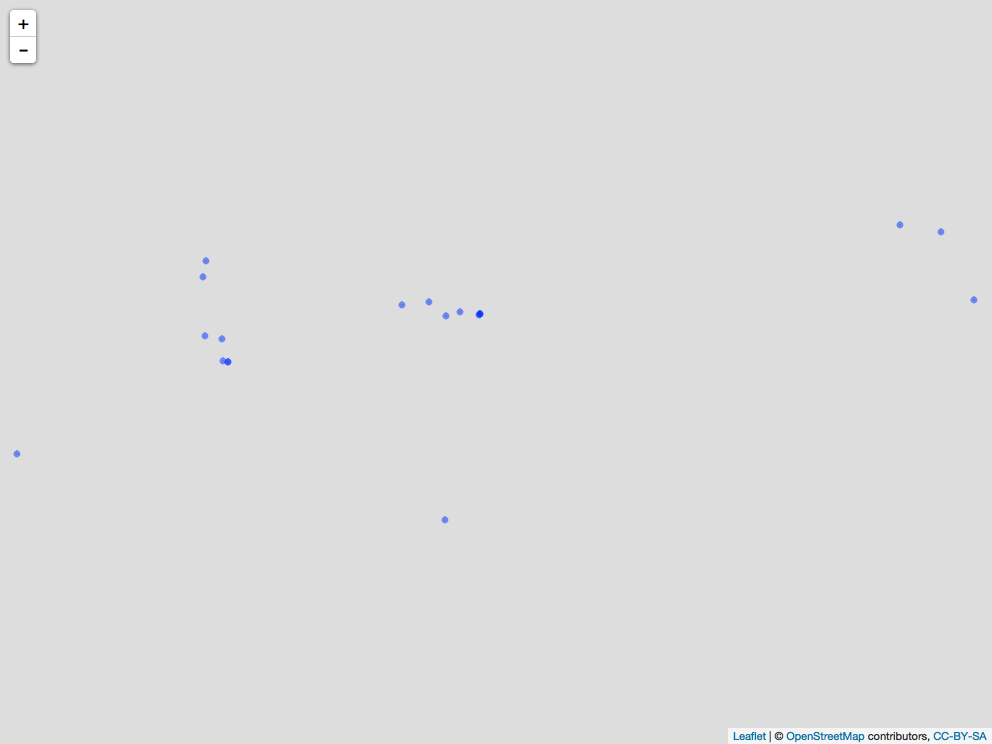
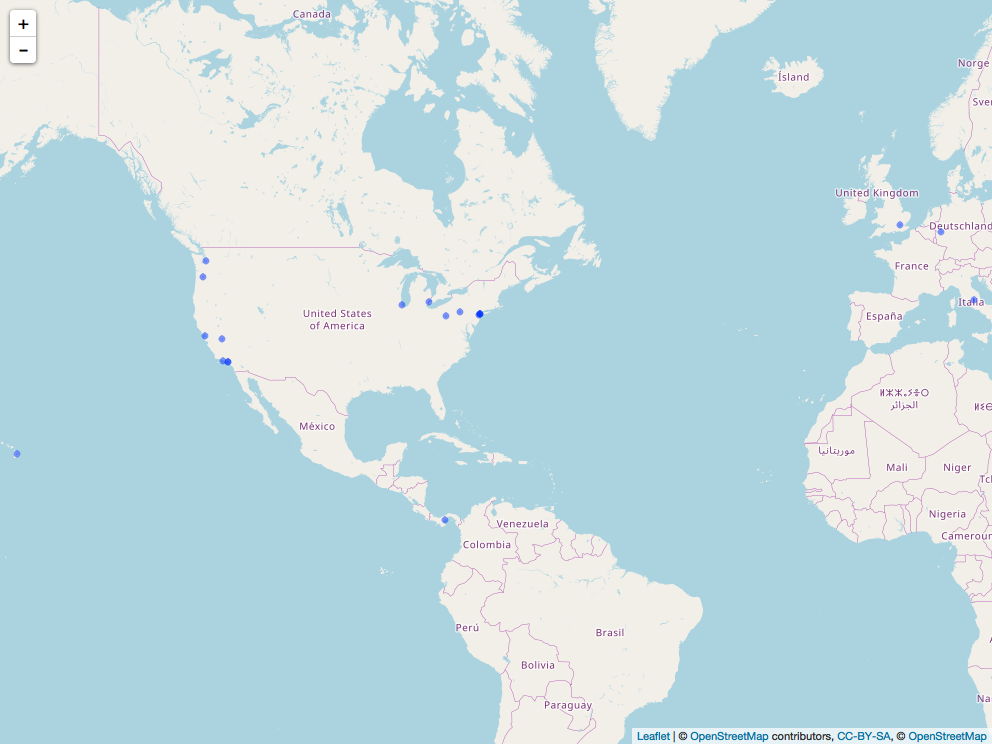
update

diff --git a/hw06/hw06-Tang-Jiahui.html b/hw06/hw06-Tang-Jiahui.html
@@ -243,22 +243,22 @@ writeLines(backslash)</code></pre>
 <pre class="r"><code>writeLines(backslash2)</code></pre>
 <pre><code>## a\</code></pre>
 <pre class="r"><code>str_view(c(&quot;abc&quot;, &quot;a\\b&quot;, &quot;bef&quot;), &quot;\\\\&quot;)</code></pre>
-<div id="htmlwidget-78f3b83acbce5a109d50" style="width:960px;height:auto;" class="str_view html-widget"></div>
-<script type="application/json" data-for="htmlwidget-78f3b83acbce5a109d50">{"x":{"html":"<ul>\n  <li>abc<\/li>\n  <li>a<span class='match'>\\<\/span>b<\/li>\n  <li>bef<\/li>\n<\/ul>"},"evals":[],"jsHooks":[]}</script>
+<div id="htmlwidget-afb9a54662c785cf31b3" style="width:960px;height:auto;" class="str_view html-widget"></div>
+<script type="application/json" data-for="htmlwidget-afb9a54662c785cf31b3">{"x":{"html":"<ul>\n  <li>abc<\/li>\n  <li>a<span class='match'>\\<\/span>b<\/li>\n  <li>bef<\/li>\n<\/ul>"},"evals":[],"jsHooks":[]}</script>
 <ul>
 <li>How would you match the sequence “’ ?</li>
 </ul>
 <p>*Anwser: We should string “&quot;\’\\” to match “’ as below.*</p>
 <pre class="r"><code>str_view(c(&quot;abc&quot;, 'a&quot;\'\\b', &quot;bef&quot;), &quot;\&quot;\\'\\\\&quot;)</code></pre>
-<div id="htmlwidget-577c947ea16cee736e2b" style="width:960px;height:auto;" class="str_view html-widget"></div>
-<script type="application/json" data-for="htmlwidget-577c947ea16cee736e2b">{"x":{"html":"<ul>\n  <li>abc<\/li>\n  <li>a<span class='match'>\"'\\<\/span>b<\/li>\n  <li>bef<\/li>\n<\/ul>"},"evals":[],"jsHooks":[]}</script>
+<div id="htmlwidget-b24b1a4e1d9d7c3aecee" style="width:960px;height:auto;" class="str_view html-widget"></div>
+<script type="application/json" data-for="htmlwidget-b24b1a4e1d9d7c3aecee">{"x":{"html":"<ul>\n  <li>abc<\/li>\n  <li>a<span class='match'>\"'\\<\/span>b<\/li>\n  <li>bef<\/li>\n<\/ul>"},"evals":[],"jsHooks":[]}</script>
 <ul>
 <li>What patterns will the regular expression ...... match? How would you represent it as a string?</li>
 </ul>
 <p><em>Answer: The regular express ...... matches any strings that have a dot followed by any characters,then another dot with character，then another dot with character.</em></p>
 <pre class="r"><code>str_view(c(&quot;abc&quot;, &quot;.a.b.c&quot;, &quot;bef&quot;), &quot;\\..\\..\\..&quot;)</code></pre>
-<div id="htmlwidget-5c0bcc5fc17fbe20c6a8" style="width:960px;height:auto;" class="str_view html-widget"></div>
-<script type="application/json" data-for="htmlwidget-5c0bcc5fc17fbe20c6a8">{"x":{"html":"<ul>\n  <li>abc<\/li>\n  <li><span class='match'>.a.b.c<\/span><\/li>\n  <li>bef<\/li>\n<\/ul>"},"evals":[],"jsHooks":[]}</script>
+<div id="htmlwidget-75767ec4f2a12349798d" style="width:960px;height:auto;" class="str_view html-widget"></div>
+<script type="application/json" data-for="htmlwidget-75767ec4f2a12349798d">{"x":{"html":"<ul>\n  <li>abc<\/li>\n  <li><span class='match'>.a.b.c<\/span><\/li>\n  <li>bef<\/li>\n<\/ul>"},"evals":[],"jsHooks":[]}</script>
 </div>
 <div id="exercises14.3.2.1" class="section level3">
 <h3>Exercises14.3.2.1</h3>
@@ -267,8 +267,8 @@ writeLines(backslash)</code></pre>
 </ul>
 <p><em>Answer：We can use ‘^\<span class="math inline">\(\\^\\\)</span>$’ to match. </em></p>
 <pre class="r"><code>str_view(c(&quot;abc&quot;, &quot;$^$&quot;, &quot;a$^$a&quot;), &quot;^\\$\\^\\$$&quot;)</code></pre>
-<div id="htmlwidget-bc0d5dacd17c05e11fbc" style="width:960px;height:auto;" class="str_view html-widget"></div>
-<script type="application/json" data-for="htmlwidget-bc0d5dacd17c05e11fbc">{"x":{"html":"<ul>\n  <li>abc<\/li>\n  <li><span class='match'>$^$<\/span><\/li>\n  <li>a$^$a<\/li>\n<\/ul>"},"evals":[],"jsHooks":[]}</script>
+<div id="htmlwidget-e4ca7c52b5259f620602" style="width:960px;height:auto;" class="str_view html-widget"></div>
+<script type="application/json" data-for="htmlwidget-e4ca7c52b5259f620602">{"x":{"html":"<ul>\n  <li>abc<\/li>\n  <li><span class='match'>$^$<\/span><\/li>\n  <li>a$^$a<\/li>\n<\/ul>"},"evals":[],"jsHooks":[]}</script>
 <ul>
 <li>Given the corpus of common words in stringr::words, create regular expressions that find all words that:</li>
 </ul>
@@ -281,17 +281,17 @@ writeLines(backslash)</code></pre>
 <p>Since this list is long, you might want to use the match argument to str_view() to show only the matching or non-matching words.</p>
 <p><em>Anwser: We can use regular expressions show below to find all words.</em></p>
 <pre class="r"><code>str_view(stringr::words, &quot;^y&quot;, match = TRUE)</code></pre>
-<div id="htmlwidget-5e9726d8404dd9d7a4f8" style="width:960px;height:auto;" class="str_view html-widget"></div>
-<script type="application/json" data-for="htmlwidget-5e9726d8404dd9d7a4f8">{"x":{"html":"<ul>\n  <li><span class='match'>y<\/span>ear<\/li>\n  <li><span class='match'>y<\/span>es<\/li>\n  <li><span class='match'>y<\/span>esterday<\/li>\n  <li><span class='match'>y<\/span>et<\/li>\n  <li><span class='match'>y<\/span>ou<\/li>\n  <li><span class='match'>y<\/span>oung<\/li>\n<\/ul>"},"evals":[],"jsHooks":[]}</script>
+<div id="htmlwidget-56de4177d35988f820a2" style="width:960px;height:auto;" class="str_view html-widget"></div>
+<script type="application/json" data-for="htmlwidget-56de4177d35988f820a2">{"x":{"html":"<ul>\n  <li><span class='match'>y<\/span>ear<\/li>\n  <li><span class='match'>y<\/span>es<\/li>\n  <li><span class='match'>y<\/span>esterday<\/li>\n  <li><span class='match'>y<\/span>et<\/li>\n  <li><span class='match'>y<\/span>ou<\/li>\n  <li><span class='match'>y<\/span>oung<\/li>\n<\/ul>"},"evals":[],"jsHooks":[]}</script>
 <pre class="r"><code>str_view(stringr::words, &quot;x$&quot;, match = TRUE)</code></pre>
-<div id="htmlwidget-163293389b677ea29d9b" style="width:960px;height:auto;" class="str_view html-widget"></div>
-<script type="application/json" data-for="htmlwidget-163293389b677ea29d9b">{"x":{"html":"<ul>\n  <li>bo<span class='match'>x<\/span><\/li>\n  <li>se<span class='match'>x<\/span><\/li>\n  <li>si<span class='match'>x<\/span><\/li>\n  <li>ta<span class='match'>x<\/span><\/li>\n<\/ul>"},"evals":[],"jsHooks":[]}</script>
+<div id="htmlwidget-15edb0595e0413ab9be1" style="width:960px;height:auto;" class="str_view html-widget"></div>
+<script type="application/json" data-for="htmlwidget-15edb0595e0413ab9be1">{"x":{"html":"<ul>\n  <li>bo<span class='match'>x<\/span><\/li>\n  <li>se<span class='match'>x<\/span><\/li>\n  <li>si<span class='match'>x<\/span><\/li>\n  <li>ta<span class='match'>x<\/span><\/li>\n<\/ul>"},"evals":[],"jsHooks":[]}</script>
 <pre class="r"><code>str_view(tail(stringr::words), &quot;^...$&quot;, match = TRUE)</code></pre>
-<div id="htmlwidget-6ef8bbe1b34ce729498d" style="width:960px;height:auto;" class="str_view html-widget"></div>
-<script type="application/json" data-for="htmlwidget-6ef8bbe1b34ce729498d">{"x":{"html":"<ul>\n  <li><span class='match'>yes<\/span><\/li>\n  <li><span class='match'>yet<\/span><\/li>\n  <li><span class='match'>you<\/span><\/li>\n<\/ul>"},"evals":[],"jsHooks":[]}</script>
+<div id="htmlwidget-6de38ce03c95db9769a2" style="width:960px;height:auto;" class="str_view html-widget"></div>
+<script type="application/json" data-for="htmlwidget-6de38ce03c95db9769a2">{"x":{"html":"<ul>\n  <li><span class='match'>yes<\/span><\/li>\n  <li><span class='match'>yet<\/span><\/li>\n  <li><span class='match'>you<\/span><\/li>\n<\/ul>"},"evals":[],"jsHooks":[]}</script>
 <pre class="r"><code>str_view(head(stringr::words), &quot;^.......&quot;, match = TRUE)</code></pre>
-<div id="htmlwidget-65f83f2507cee5786e4a" style="width:960px;height:auto;" class="str_view html-widget"></div>
-<script type="application/json" data-for="htmlwidget-65f83f2507cee5786e4a">{"x":{"html":"<ul>\n  <li><span class='match'>absolut<\/span>e<\/li>\n  <li><span class='match'>account<\/span><\/li>\n<\/ul>"},"evals":[],"jsHooks":[]}</script>
+<div id="htmlwidget-1d47890dc3953ac03664" style="width:960px;height:auto;" class="str_view html-widget"></div>
+<script type="application/json" data-for="htmlwidget-1d47890dc3953ac03664">{"x":{"html":"<ul>\n  <li><span class='match'>absolut<\/span>e<\/li>\n  <li><span class='match'>account<\/span><\/li>\n<\/ul>"},"evals":[],"jsHooks":[]}</script>
 </div>
 <div id="exercises14.3.3.1" class="section level3">
 <h3>Exercises14.3.3.1</h3>
@@ -305,46 +305,46 @@ writeLines(backslash)</code></pre>
 <li><p>End with ing or ise.</p></li>
 </ol>
 <pre class="r"><code>str_view(head(stringr::words), &quot;^[aeiou]&quot;, match = TRUE)</code></pre>
-<div id="htmlwidget-63339474a5dd2799c3df" style="width:960px;height:auto;" class="str_view html-widget"></div>
-<script type="application/json" data-for="htmlwidget-63339474a5dd2799c3df">{"x":{"html":"<ul>\n  <li><span class='match'>a<\/span><\/li>\n  <li><span class='match'>a<\/span>ble<\/li>\n  <li><span class='match'>a<\/span>bout<\/li>\n  <li><span class='match'>a<\/span>bsolute<\/li>\n  <li><span class='match'>a<\/span>ccept<\/li>\n  <li><span class='match'>a<\/span>ccount<\/li>\n<\/ul>"},"evals":[],"jsHooks":[]}</script>
+<div id="htmlwidget-ac0bdbf748157ebb44f1" style="width:960px;height:auto;" class="str_view html-widget"></div>
+<script type="application/json" data-for="htmlwidget-ac0bdbf748157ebb44f1">{"x":{"html":"<ul>\n  <li><span class='match'>a<\/span><\/li>\n  <li><span class='match'>a<\/span>ble<\/li>\n  <li><span class='match'>a<\/span>bout<\/li>\n  <li><span class='match'>a<\/span>bsolute<\/li>\n  <li><span class='match'>a<\/span>ccept<\/li>\n  <li><span class='match'>a<\/span>ccount<\/li>\n<\/ul>"},"evals":[],"jsHooks":[]}</script>
 <pre class="r"><code>str_view(stringr::words, &quot;[aeiou]&quot;, match = FALSE)</code></pre>
-<div id="htmlwidget-ac1d7d776d2a41c658e8" style="width:960px;height:auto;" class="str_view html-widget"></div>
-<script type="application/json" data-for="htmlwidget-ac1d7d776d2a41c658e8">{"x":{"html":"<ul>\n  <li>by<\/li>\n  <li>dry<\/li>\n  <li>fly<\/li>\n  <li>mrs<\/li>\n  <li>try<\/li>\n  <li>why<\/li>\n<\/ul>"},"evals":[],"jsHooks":[]}</script>
+<div id="htmlwidget-8e414f1594e9feba3e8a" style="width:960px;height:auto;" class="str_view html-widget"></div>
+<script type="application/json" data-for="htmlwidget-8e414f1594e9feba3e8a">{"x":{"html":"<ul>\n  <li>by<\/li>\n  <li>dry<\/li>\n  <li>fly<\/li>\n  <li>mrs<\/li>\n  <li>try<\/li>\n  <li>why<\/li>\n<\/ul>"},"evals":[],"jsHooks":[]}</script>
 <pre class="r"><code>str_view(stringr::words, &quot;[^e]ed$&quot;, match = TRUE)</code></pre>
-<div id="htmlwidget-9763aad8439ebe09d0eb" style="width:960px;height:auto;" class="str_view html-widget"></div>
-<script type="application/json" data-for="htmlwidget-9763aad8439ebe09d0eb">{"x":{"html":"<ul>\n  <li><span class='match'>bed<\/span><\/li>\n  <li>hund<span class='match'>red<\/span><\/li>\n  <li><span class='match'>red<\/span><\/li>\n<\/ul>"},"evals":[],"jsHooks":[]}</script>
+<div id="htmlwidget-179e23ffb2b6ea00921a" style="width:960px;height:auto;" class="str_view html-widget"></div>
+<script type="application/json" data-for="htmlwidget-179e23ffb2b6ea00921a">{"x":{"html":"<ul>\n  <li><span class='match'>bed<\/span><\/li>\n  <li>hund<span class='match'>red<\/span><\/li>\n  <li><span class='match'>red<\/span><\/li>\n<\/ul>"},"evals":[],"jsHooks":[]}</script>
 <pre class="r"><code>str_view(stringr::words, &quot;ing$|ise$&quot;, match = TRUE)</code></pre>
-<div id="htmlwidget-54368f987f70f2d64675" style="width:960px;height:auto;" class="str_view html-widget"></div>
-<script type="application/json" data-for="htmlwidget-54368f987f70f2d64675">{"x":{"html":"<ul>\n  <li>advert<span class='match'>ise<\/span><\/li>\n  <li>br<span class='match'>ing<\/span><\/li>\n  <li>dur<span class='match'>ing<\/span><\/li>\n  <li>even<span class='match'>ing<\/span><\/li>\n  <li>exerc<span class='match'>ise<\/span><\/li>\n  <li>k<span class='match'>ing<\/span><\/li>\n  <li>mean<span class='match'>ing<\/span><\/li>\n  <li>morn<span class='match'>ing<\/span><\/li>\n  <li>otherw<span class='match'>ise<\/span><\/li>\n  <li>pract<span class='match'>ise<\/span><\/li>\n  <li>ra<span class='match'>ise<\/span><\/li>\n  <li>real<span class='match'>ise<\/span><\/li>\n  <li>r<span class='match'>ing<\/span><\/li>\n  <li>r<span class='match'>ise<\/span><\/li>\n  <li>s<span class='match'>ing<\/span><\/li>\n  <li>surpr<span class='match'>ise<\/span><\/li>\n  <li>th<span class='match'>ing<\/span><\/li>\n<\/ul>"},"evals":[],"jsHooks":[]}</script>
+<div id="htmlwidget-65f1c6bf69b0e0ac964f" style="width:960px;height:auto;" class="str_view html-widget"></div>
+<script type="application/json" data-for="htmlwidget-65f1c6bf69b0e0ac964f">{"x":{"html":"<ul>\n  <li>advert<span class='match'>ise<\/span><\/li>\n  <li>br<span class='match'>ing<\/span><\/li>\n  <li>dur<span class='match'>ing<\/span><\/li>\n  <li>even<span class='match'>ing<\/span><\/li>\n  <li>exerc<span class='match'>ise<\/span><\/li>\n  <li>k<span class='match'>ing<\/span><\/li>\n  <li>mean<span class='match'>ing<\/span><\/li>\n  <li>morn<span class='match'>ing<\/span><\/li>\n  <li>otherw<span class='match'>ise<\/span><\/li>\n  <li>pract<span class='match'>ise<\/span><\/li>\n  <li>ra<span class='match'>ise<\/span><\/li>\n  <li>real<span class='match'>ise<\/span><\/li>\n  <li>r<span class='match'>ing<\/span><\/li>\n  <li>r<span class='match'>ise<\/span><\/li>\n  <li>s<span class='match'>ing<\/span><\/li>\n  <li>surpr<span class='match'>ise<\/span><\/li>\n  <li>th<span class='match'>ing<\/span><\/li>\n<\/ul>"},"evals":[],"jsHooks":[]}</script>
 <ul>
 <li>Empirically verify the rule “i before e except after c”.</li>
 </ul>
 <pre class="r"><code>str_view(stringr::words, &quot;cei|[^c]ie&quot;, match = TRUE)</code></pre>
-<div id="htmlwidget-8148998de3e971c7baa8" style="width:960px;height:auto;" class="str_view html-widget"></div>
-<script type="application/json" data-for="htmlwidget-8148998de3e971c7baa8">{"x":{"html":"<ul>\n  <li>ac<span class='match'>hie<\/span>ve<\/li>\n  <li>be<span class='match'>lie<\/span>ve<\/li>\n  <li>b<span class='match'>rie<\/span>f<\/li>\n  <li>c<span class='match'>lie<\/span>nt<\/li>\n  <li><span class='match'>die<\/span><\/li>\n  <li>expe<span class='match'>rie<\/span>nce<\/li>\n  <li><span class='match'>fie<\/span>ld<\/li>\n  <li>f<span class='match'>rie<\/span>nd<\/li>\n  <li><span class='match'>lie<\/span><\/li>\n  <li><span class='match'>pie<\/span>ce<\/li>\n  <li>q<span class='match'>uie<\/span>t<\/li>\n  <li>re<span class='match'>cei<\/span>ve<\/li>\n  <li><span class='match'>tie<\/span><\/li>\n  <li><span class='match'>vie<\/span>w<\/li>\n<\/ul>"},"evals":[],"jsHooks":[]}</script>
+<div id="htmlwidget-088a671cee4c41bbf4f5" style="width:960px;height:auto;" class="str_view html-widget"></div>
+<script type="application/json" data-for="htmlwidget-088a671cee4c41bbf4f5">{"x":{"html":"<ul>\n  <li>ac<span class='match'>hie<\/span>ve<\/li>\n  <li>be<span class='match'>lie<\/span>ve<\/li>\n  <li>b<span class='match'>rie<\/span>f<\/li>\n  <li>c<span class='match'>lie<\/span>nt<\/li>\n  <li><span class='match'>die<\/span><\/li>\n  <li>expe<span class='match'>rie<\/span>nce<\/li>\n  <li><span class='match'>fie<\/span>ld<\/li>\n  <li>f<span class='match'>rie<\/span>nd<\/li>\n  <li><span class='match'>lie<\/span><\/li>\n  <li><span class='match'>pie<\/span>ce<\/li>\n  <li>q<span class='match'>uie<\/span>t<\/li>\n  <li>re<span class='match'>cei<\/span>ve<\/li>\n  <li><span class='match'>tie<\/span><\/li>\n  <li><span class='match'>vie<\/span>w<\/li>\n<\/ul>"},"evals":[],"jsHooks":[]}</script>
 <pre class="r"><code>str_view(stringr::words, &quot;cie|[^c]ei&quot;, match = TRUE)</code></pre>
-<div id="htmlwidget-046f14093ef4e470c758" style="width:960px;height:auto;" class="str_view html-widget"></div>
-<script type="application/json" data-for="htmlwidget-046f14093ef4e470c758">{"x":{"html":"<ul>\n  <li>s<span class='match'>cie<\/span>nce<\/li>\n  <li>so<span class='match'>cie<\/span>ty<\/li>\n  <li><span class='match'>wei<\/span>gh<\/li>\n<\/ul>"},"evals":[],"jsHooks":[]}</script>
+<div id="htmlwidget-13f2f8ddec8f31eb1278" style="width:960px;height:auto;" class="str_view html-widget"></div>
+<script type="application/json" data-for="htmlwidget-13f2f8ddec8f31eb1278">{"x":{"html":"<ul>\n  <li>s<span class='match'>cie<\/span>nce<\/li>\n  <li>so<span class='match'>cie<\/span>ty<\/li>\n  <li><span class='match'>wei<\/span>gh<\/li>\n<\/ul>"},"evals":[],"jsHooks":[]}</script>
 <ul>
 <li>Is “q” always followed by a “u”?</li>
 </ul>
 <p><em>Answer: From the result we may find it is true that “q” always followed by a “u”.</em></p>
 <pre class="r"><code>str_view(stringr::words, &quot;q[^u]&quot;, match = TRUE)</code></pre>
-<div id="htmlwidget-20e938d47c8a32ea92a9" style="width:960px;height:auto;" class="str_view html-widget"></div>
-<script type="application/json" data-for="htmlwidget-20e938d47c8a32ea92a9">{"x":{"html":"<ul>\n  <li><\/li>\n<\/ul>"},"evals":[],"jsHooks":[]}</script>
+<div id="htmlwidget-3e6a8007f252d534ebf3" style="width:960px;height:auto;" class="str_view html-widget"></div>
+<script type="application/json" data-for="htmlwidget-3e6a8007f252d534ebf3">{"x":{"html":"<ul>\n  <li><\/li>\n<\/ul>"},"evals":[],"jsHooks":[]}</script>
 <ul>
 <li>Write a regular expression that matches a word if it’s probably written in British English, not American English.</li>
 </ul>
 <p><em>Answer: Taking “-ize/-ise” and “-se/-ze” as examples, we may use regular expression to match British English words.</em></p>
 <pre class="r"><code>str_view(c(&quot;summarize&quot;,&quot;summarise&quot;,&quot;defense&quot;,&quot;defence&quot;), &quot;ce$|ize$&quot;, match = TRUE)</code></pre>
-<div id="htmlwidget-a21e90900ff51a557d0b" style="width:960px;height:auto;" class="str_view html-widget"></div>
-<script type="application/json" data-for="htmlwidget-a21e90900ff51a557d0b">{"x":{"html":"<ul>\n  <li>summar<span class='match'>ize<\/span><\/li>\n  <li>defen<span class='match'>ce<\/span><\/li>\n<\/ul>"},"evals":[],"jsHooks":[]}</script>
+<div id="htmlwidget-e1fcd3877af88b6893d4" style="width:960px;height:auto;" class="str_view html-widget"></div>
+<script type="application/json" data-for="htmlwidget-e1fcd3877af88b6893d4">{"x":{"html":"<ul>\n  <li>summar<span class='match'>ize<\/span><\/li>\n  <li>defen<span class='match'>ce<\/span><\/li>\n<\/ul>"},"evals":[],"jsHooks":[]}</script>
 <ul>
 <li>Create a regular expression that will match telephone numbers as commonly written in your country.</li>
 </ul>
 <pre class="r"><code>str_view(c(&quot;778-111-1111&quot;,&quot;028-8888-8888&quot;), &quot;\\d\\d\\d-\\d\\d\\d-\\d\\d\\d\\d&quot;, match = TRUE)</code></pre>
-<div id="htmlwidget-8ca902c300160da94076" style="width:960px;height:auto;" class="str_view html-widget"></div>
-<script type="application/json" data-for="htmlwidget-8ca902c300160da94076">{"x":{"html":"<ul>\n  <li><span class='match'>778-111-1111<\/span><\/li>\n<\/ul>"},"evals":[],"jsHooks":[]}</script>
+<div id="htmlwidget-21b6b7d10c7d22871286" style="width:960px;height:auto;" class="str_view html-widget"></div>
+<script type="application/json" data-for="htmlwidget-21b6b7d10c7d22871286">{"x":{"html":"<ul>\n  <li><span class='match'>778-111-1111<\/span><\/li>\n<\/ul>"},"evals":[],"jsHooks":[]}</script>
 </div>
 <div id="exercises14.3.4.1" class="section level3">
 <h3>Exercises14.3.4.1</h3>
@@ -363,17 +363,17 @@ writeLines(backslash)</code></pre>
 </ol>
 <p><em>Anwser: The first regular expression matches all words. The second one matches all words(at least one character) surrounded by curly braces. The third one matches XXXX-XX-XX(X represents digits). The last one matches four backslashes.</em></p>
 <pre class="r"><code>str_view(stringr::words, &quot;^.*$&quot;, match = FALSE)</code></pre>
-<div id="htmlwidget-b744011f64b0063c0171" style="width:960px;height:auto;" class="str_view html-widget"></div>
-<script type="application/json" data-for="htmlwidget-b744011f64b0063c0171">{"x":{"html":"<ul>\n  <li><\/li>\n<\/ul>"},"evals":[],"jsHooks":[]}</script>
+<div id="htmlwidget-fe9742bfd6fb56c0dc94" style="width:960px;height:auto;" class="str_view html-widget"></div>
+<script type="application/json" data-for="htmlwidget-fe9742bfd6fb56c0dc94">{"x":{"html":"<ul>\n  <li><\/li>\n<\/ul>"},"evals":[],"jsHooks":[]}</script>
 <pre class="r"><code>str_view(c(&quot;{a}&quot;,&quot;a{aaaa}&quot;,&quot;aa&quot;), &quot;\\{.+\\}&quot;, match = TRUE)</code></pre>
-<div id="htmlwidget-6638fdfb4ca5df7840a3" style="width:960px;height:auto;" class="str_view html-widget"></div>
-<script type="application/json" data-for="htmlwidget-6638fdfb4ca5df7840a3">{"x":{"html":"<ul>\n  <li><span class='match'>{a}<\/span><\/li>\n  <li>a<span class='match'>{aaaa}<\/span><\/li>\n<\/ul>"},"evals":[],"jsHooks":[]}</script>
+<div id="htmlwidget-cb7bf1c8b638df35476b" style="width:960px;height:auto;" class="str_view html-widget"></div>
+<script type="application/json" data-for="htmlwidget-cb7bf1c8b638df35476b">{"x":{"html":"<ul>\n  <li><span class='match'>{a}<\/span><\/li>\n  <li>a<span class='match'>{aaaa}<\/span><\/li>\n<\/ul>"},"evals":[],"jsHooks":[]}</script>
 <pre class="r"><code>str_view(c(&quot;1234-56-78&quot;,&quot;a{a}&quot;,&quot;aa&quot;), &quot;\\d{4}-\\d{2}-\\d{2}&quot;, match = TRUE)</code></pre>
-<div id="htmlwidget-b74a5896f88f261644ca" style="width:960px;height:auto;" class="str_view html-widget"></div>
-<script type="application/json" data-for="htmlwidget-b74a5896f88f261644ca">{"x":{"html":"<ul>\n  <li><span class='match'>1234-56-78<\/span><\/li>\n<\/ul>"},"evals":[],"jsHooks":[]}</script>
+<div id="htmlwidget-7eb48f83aadd90e93fa9" style="width:960px;height:auto;" class="str_view html-widget"></div>
+<script type="application/json" data-for="htmlwidget-7eb48f83aadd90e93fa9">{"x":{"html":"<ul>\n  <li><span class='match'>1234-56-78<\/span><\/li>\n<\/ul>"},"evals":[],"jsHooks":[]}</script>
 <pre class="r"><code>str_view(c(&quot;\\\\\\\\&quot;,&quot;a{a}&quot;,&quot;aa&quot;), &quot;\\\\{4}&quot;, match = TRUE)</code></pre>
-<div id="htmlwidget-32f44f8c96b49e953981" style="width:960px;height:auto;" class="str_view html-widget"></div>
-<script type="application/json" data-for="htmlwidget-32f44f8c96b49e953981">{"x":{"html":"<ul>\n  <li><span class='match'>\\\\\\\\<\/span><\/li>\n<\/ul>"},"evals":[],"jsHooks":[]}</script>
+<div id="htmlwidget-f2709e906d8023a72dfc" style="width:960px;height:auto;" class="str_view html-widget"></div>
+<script type="application/json" data-for="htmlwidget-f2709e906d8023a72dfc">{"x":{"html":"<ul>\n  <li><span class='match'>\\\\\\\\<\/span><\/li>\n<\/ul>"},"evals":[],"jsHooks":[]}</script>
 <ul>
 <li>Create regular expressions to find all words that:</li>
 </ul>
@@ -383,14 +383,14 @@ writeLines(backslash)</code></pre>
 <li>Have two or more vowel-consonant pairs in a row.</li>
 </ol>
 <pre class="r"><code>str_view(stringr::words, &quot;^[^aeoiu]{3,}&quot;, match = TRUE)</code></pre>
-<div id="htmlwidget-d0dccc20e5d77f83189a" style="width:960px;height:auto;" class="str_view html-widget"></div>
-<script type="application/json" data-for="htmlwidget-d0dccc20e5d77f83189a">{"x":{"html":"<ul>\n  <li><span class='match'>Chr<\/span>ist<\/li>\n  <li><span class='match'>Chr<\/span>istmas<\/li>\n  <li><span class='match'>dry<\/span><\/li>\n  <li><span class='match'>fly<\/span><\/li>\n  <li><span class='match'>mrs<\/span><\/li>\n  <li><span class='match'>sch<\/span>eme<\/li>\n  <li><span class='match'>sch<\/span>ool<\/li>\n  <li><span class='match'>str<\/span>aight<\/li>\n  <li><span class='match'>str<\/span>ategy<\/li>\n  <li><span class='match'>str<\/span>eet<\/li>\n  <li><span class='match'>str<\/span>ike<\/li>\n  <li><span class='match'>str<\/span>ong<\/li>\n  <li><span class='match'>str<\/span>ucture<\/li>\n  <li><span class='match'>syst<\/span>em<\/li>\n  <li><span class='match'>thr<\/span>ee<\/li>\n  <li><span class='match'>thr<\/span>ough<\/li>\n  <li><span class='match'>thr<\/span>ow<\/li>\n  <li><span class='match'>try<\/span><\/li>\n  <li><span class='match'>typ<\/span>e<\/li>\n  <li><span class='match'>why<\/span><\/li>\n<\/ul>"},"evals":[],"jsHooks":[]}</script>
+<div id="htmlwidget-43670a03af7bacfa5a69" style="width:960px;height:auto;" class="str_view html-widget"></div>
+<script type="application/json" data-for="htmlwidget-43670a03af7bacfa5a69">{"x":{"html":"<ul>\n  <li><span class='match'>Chr<\/span>ist<\/li>\n  <li><span class='match'>Chr<\/span>istmas<\/li>\n  <li><span class='match'>dry<\/span><\/li>\n  <li><span class='match'>fly<\/span><\/li>\n  <li><span class='match'>mrs<\/span><\/li>\n  <li><span class='match'>sch<\/span>eme<\/li>\n  <li><span class='match'>sch<\/span>ool<\/li>\n  <li><span class='match'>str<\/span>aight<\/li>\n  <li><span class='match'>str<\/span>ategy<\/li>\n  <li><span class='match'>str<\/span>eet<\/li>\n  <li><span class='match'>str<\/span>ike<\/li>\n  <li><span class='match'>str<\/span>ong<\/li>\n  <li><span class='match'>str<\/span>ucture<\/li>\n  <li><span class='match'>syst<\/span>em<\/li>\n  <li><span class='match'>thr<\/span>ee<\/li>\n  <li><span class='match'>thr<\/span>ough<\/li>\n  <li><span class='match'>thr<\/span>ow<\/li>\n  <li><span class='match'>try<\/span><\/li>\n  <li><span class='match'>typ<\/span>e<\/li>\n  <li><span class='match'>why<\/span><\/li>\n<\/ul>"},"evals":[],"jsHooks":[]}</script>
 <pre class="r"><code>str_view(stringr::words, &quot;[aeoiu]{3,}&quot;, match = TRUE)</code></pre>
-<div id="htmlwidget-ebeb85e971ed8b6524aa" style="width:960px;height:auto;" class="str_view html-widget"></div>
-<script type="application/json" data-for="htmlwidget-ebeb85e971ed8b6524aa">{"x":{"html":"<ul>\n  <li>b<span class='match'>eau<\/span>ty<\/li>\n  <li>obv<span class='match'>iou<\/span>s<\/li>\n  <li>prev<span class='match'>iou<\/span>s<\/li>\n  <li>q<span class='match'>uie<\/span>t<\/li>\n  <li>ser<span class='match'>iou<\/span>s<\/li>\n  <li>var<span class='match'>iou<\/span>s<\/li>\n<\/ul>"},"evals":[],"jsHooks":[]}</script>
+<div id="htmlwidget-1da49b12f50d6ae00c87" style="width:960px;height:auto;" class="str_view html-widget"></div>
+<script type="application/json" data-for="htmlwidget-1da49b12f50d6ae00c87">{"x":{"html":"<ul>\n  <li>b<span class='match'>eau<\/span>ty<\/li>\n  <li>obv<span class='match'>iou<\/span>s<\/li>\n  <li>prev<span class='match'>iou<\/span>s<\/li>\n  <li>q<span class='match'>uie<\/span>t<\/li>\n  <li>ser<span class='match'>iou<\/span>s<\/li>\n  <li>var<span class='match'>iou<\/span>s<\/li>\n<\/ul>"},"evals":[],"jsHooks":[]}</script>
 <pre class="r"><code>str_view(head(stringr::words), &quot;([aeoui][^aeoiu]){2,}&quot;, match = TRUE)</code></pre>
-<div id="htmlwidget-4c49c9039cdf3d4f066d" style="width:960px;height:auto;" class="str_view html-widget"></div>
-<script type="application/json" data-for="htmlwidget-4c49c9039cdf3d4f066d">{"x":{"html":"<ul>\n  <li>abs<span class='match'>olut<\/span>e<\/li>\n<\/ul>"},"evals":[],"jsHooks":[]}</script>
+<div id="htmlwidget-dc51f3006fd580b63a09" style="width:960px;height:auto;" class="str_view html-widget"></div>
+<script type="application/json" data-for="htmlwidget-dc51f3006fd580b63a09">{"x":{"html":"<ul>\n  <li>abs<span class='match'>olut<\/span>e<\/li>\n<\/ul>"},"evals":[],"jsHooks":[]}</script>
 <ul>
 <li>Solve the beginner regexp crosswords at <a href="https://regexcrossword.com/challenges/beginner" class="uri">https://regexcrossword.com/challenges/beginner</a>.</li>
 </ul>
@@ -410,20 +410,20 @@ writeLines(backslash)</code></pre>
 </ol>
 <p><em>Answer: The first one means the same characters showing three times. The second one represents a pair of characters and its reversal. The third one matches two charcaters followed by the same two characters. The forth matches a character followed by any character, then character same as the first, then any other character and the same character again. The last one matches three characters followed by 0 or more characters, the the three characters in reverse. </em></p>
 <pre class="r"><code>str_view(c(&quot;aa&quot;,&quot;aaa&quot;), &quot;(.)\\1\\1&quot;, match = TRUE)</code></pre>
-<div id="htmlwidget-2ef64ad703073ad76a26" style="width:960px;height:auto;" class="str_view html-widget"></div>
-<script type="application/json" data-for="htmlwidget-2ef64ad703073ad76a26">{"x":{"html":"<ul>\n  <li><span class='match'>aaa<\/span><\/li>\n<\/ul>"},"evals":[],"jsHooks":[]}</script>
+<div id="htmlwidget-e83af40f8f379abf98e5" style="width:960px;height:auto;" class="str_view html-widget"></div>
+<script type="application/json" data-for="htmlwidget-e83af40f8f379abf98e5">{"x":{"html":"<ul>\n  <li><span class='match'>aaa<\/span><\/li>\n<\/ul>"},"evals":[],"jsHooks":[]}</script>
 <pre class="r"><code>str_view(c(&quot;abba&quot;,&quot;abab&quot;), &quot;(.)(.)\\2\\1&quot;, match = TRUE)</code></pre>
-<div id="htmlwidget-e1cafd6eff7841e0123a" style="width:960px;height:auto;" class="str_view html-widget"></div>
-<script type="application/json" data-for="htmlwidget-e1cafd6eff7841e0123a">{"x":{"html":"<ul>\n  <li><span class='match'>abba<\/span><\/li>\n<\/ul>"},"evals":[],"jsHooks":[]}</script>
+<div id="htmlwidget-9a09e2eb82aa5a217a56" style="width:960px;height:auto;" class="str_view html-widget"></div>
+<script type="application/json" data-for="htmlwidget-9a09e2eb82aa5a217a56">{"x":{"html":"<ul>\n  <li><span class='match'>abba<\/span><\/li>\n<\/ul>"},"evals":[],"jsHooks":[]}</script>
 <pre class="r"><code>str_view(c(&quot;abcd&quot;,&quot;aaaa&quot;,&quot;a0a0&quot;), &quot;(..)\\1&quot;, match = TRUE)</code></pre>
-<div id="htmlwidget-457274d801cfcc59c2a2" style="width:960px;height:auto;" class="str_view html-widget"></div>
-<script type="application/json" data-for="htmlwidget-457274d801cfcc59c2a2">{"x":{"html":"<ul>\n  <li><span class='match'>aaaa<\/span><\/li>\n  <li><span class='match'>a0a0<\/span><\/li>\n<\/ul>"},"evals":[],"jsHooks":[]}</script>
+<div id="htmlwidget-39bc192a92e54661ceb4" style="width:960px;height:auto;" class="str_view html-widget"></div>
+<script type="application/json" data-for="htmlwidget-39bc192a92e54661ceb4">{"x":{"html":"<ul>\n  <li><span class='match'>aaaa<\/span><\/li>\n  <li><span class='match'>a0a0<\/span><\/li>\n<\/ul>"},"evals":[],"jsHooks":[]}</script>
 <pre class="r"><code>str_view(c(&quot;a1a2a&quot;,&quot;a.a.a&quot;,&quot;abcde&quot;), &quot;(.).\\1.\\1&quot;, match = TRUE)</code></pre>
-<div id="htmlwidget-1295abb2268c78811959" style="width:960px;height:auto;" class="str_view html-widget"></div>
-<script type="application/json" data-for="htmlwidget-1295abb2268c78811959">{"x":{"html":"<ul>\n  <li><span class='match'>a1a2a<\/span><\/li>\n  <li><span class='match'>a.a.a<\/span><\/li>\n<\/ul>"},"evals":[],"jsHooks":[]}</script>
+<div id="htmlwidget-6b8a25ceeea16329f37f" style="width:960px;height:auto;" class="str_view html-widget"></div>
+<script type="application/json" data-for="htmlwidget-6b8a25ceeea16329f37f">{"x":{"html":"<ul>\n  <li><span class='match'>a1a2a<\/span><\/li>\n  <li><span class='match'>a.a.a<\/span><\/li>\n<\/ul>"},"evals":[],"jsHooks":[]}</script>
 <pre class="r"><code>str_view(c(&quot;abc123cba&quot;,&quot;abcderf&quot;), &quot;(.)(.)(.).*\\3\\2\\1&quot;, match = TRUE)</code></pre>
-<div id="htmlwidget-71648c4f5e35067aa0ce" style="width:960px;height:auto;" class="str_view html-widget"></div>
-<script type="application/json" data-for="htmlwidget-71648c4f5e35067aa0ce">{"x":{"html":"<ul>\n  <li><span class='match'>abc123cba<\/span><\/li>\n<\/ul>"},"evals":[],"jsHooks":[]}</script>
+<div id="htmlwidget-778ce2ffb99ecc1aaffa" style="width:960px;height:auto;" class="str_view html-widget"></div>
+<script type="application/json" data-for="htmlwidget-778ce2ffb99ecc1aaffa">{"x":{"html":"<ul>\n  <li><span class='match'>abc123cba<\/span><\/li>\n<\/ul>"},"evals":[],"jsHooks":[]}</script>
 <ul>
 <li>Construct regular expressions to match words that:</li>
 </ul>
@@ -433,14 +433,14 @@ writeLines(backslash)</code></pre>
 <li><p>Contain one letter repeated in at least three places (e.g. “eleven” contains three “e”s.)</p></li>
 </ol>
 <pre class="r"><code>str_view(c(&quot;abc123cba&quot;,&quot;abcderf&quot;), &quot;^(.).*\\1$&quot;, match = TRUE)</code></pre>
-<div id="htmlwidget-917b03ce69b8649bf1ca" style="width:960px;height:auto;" class="str_view html-widget"></div>
-<script type="application/json" data-for="htmlwidget-917b03ce69b8649bf1ca">{"x":{"html":"<ul>\n  <li><span class='match'>abc123cba<\/span><\/li>\n<\/ul>"},"evals":[],"jsHooks":[]}</script>
+<div id="htmlwidget-cf55d97c6c892c713b4d" style="width:960px;height:auto;" class="str_view html-widget"></div>
+<script type="application/json" data-for="htmlwidget-cf55d97c6c892c713b4d">{"x":{"html":"<ul>\n  <li><span class='match'>abc123cba<\/span><\/li>\n<\/ul>"},"evals":[],"jsHooks":[]}</script>
 <pre class="r"><code>str_view(c(&quot;abcab&quot;,&quot;abcderf&quot;,&quot;cdabcab&quot;), &quot;.*(..).*\\1&quot;, match = TRUE)</code></pre>
-<div id="htmlwidget-0316011d85d326869c70" style="width:960px;height:auto;" class="str_view html-widget"></div>
-<script type="application/json" data-for="htmlwidget-0316011d85d326869c70">{"x":{"html":"<ul>\n  <li><span class='match'>abcab<\/span><\/li>\n  <li><span class='match'>cdabcab<\/span><\/li>\n<\/ul>"},"evals":[],"jsHooks":[]}</script>
+<div id="htmlwidget-02868c30763ec4210946" style="width:960px;height:auto;" class="str_view html-widget"></div>
+<script type="application/json" data-for="htmlwidget-02868c30763ec4210946">{"x":{"html":"<ul>\n  <li><span class='match'>abcab<\/span><\/li>\n  <li><span class='match'>cdabcab<\/span><\/li>\n<\/ul>"},"evals":[],"jsHooks":[]}</script>
 <pre class="r"><code>str_view(c(&quot;12311&quot;,&quot;abcaa&quot;,&quot;abcde&quot;), &quot;.*(.).*\\1.*\\1&quot;, match = TRUE)</code></pre>
-<div id="htmlwidget-1a2b7de3fda7af1ce316" style="width:960px;height:auto;" class="str_view html-widget"></div>
-<script type="application/json" data-for="htmlwidget-1a2b7de3fda7af1ce316">{"x":{"html":"<ul>\n  <li><span class='match'>12311<\/span><\/li>\n  <li><span class='match'>abcaa<\/span><\/li>\n<\/ul>"},"evals":[],"jsHooks":[]}</script>
+<div id="htmlwidget-34c79180551c2552f55d" style="width:960px;height:auto;" class="str_view html-widget"></div>
+<script type="application/json" data-for="htmlwidget-34c79180551c2552f55d">{"x":{"html":"<ul>\n  <li><span class='match'>12311<\/span><\/li>\n  <li><span class='match'>abcaa<\/span><\/li>\n<\/ul>"},"evals":[],"jsHooks":[]}</script>
 </div>
 <div id="exercises14.4.2" class="section level3">
 <h3>Exercises14.4.2</h3>
@@ -663,7 +663,7 @@ str_split(x, boundary(&quot;word&quot;))[[1]]</code></pre>
 <pre class="r"><code>stringi::stri_duplicated_any(c(&quot;a&quot;, &quot;b&quot;, &quot;a&quot;, NA, &quot;a&quot;, NA))</code></pre>
 <pre><code>## [1] 3</code></pre>
 <pre class="r"><code>stringi::stri_rand_strings(2, 5)</code></pre>
-<pre><code>## [1] &quot;JTpG7&quot; &quot;FXBgz&quot;</code></pre>
+<pre><code>## [1] &quot;fTLE7&quot; &quot;kkjI9&quot;</code></pre>
 <ul>
 <li>How do you control the language that stri_sort() uses for sorting?</li>
 </ul>

diff --git a/hw06/work_with_the_singer_data.md b/hw06/work_with_the_singer_data.md
@@ -179,7 +179,8 @@ result
 map <- leaflet()  %>%   
 addTiles() %>%
 addCircles( lat=filter_NA_locations$latitude,lng=filter_NA_locations$longitude,
-            popup = filter_NA_locations$title)
+            popup = filter_NA_locations$title) %>% 
+  addProviderTiles(providers$OpenStreetMap)
 
 saveWidget(map, "map.html", selfcontained = FALSE)
 webshot("map.html", file = "map.png",
